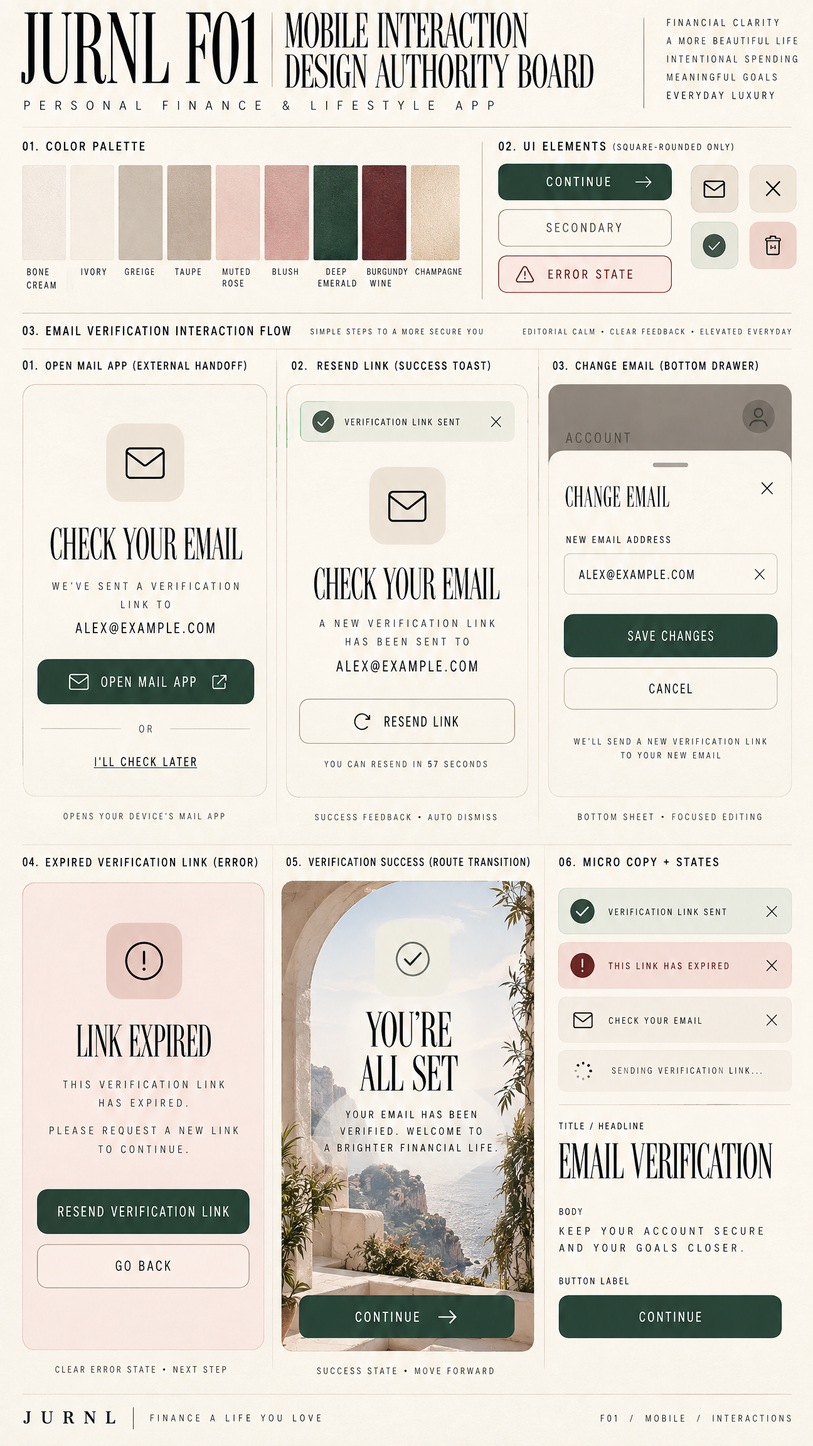
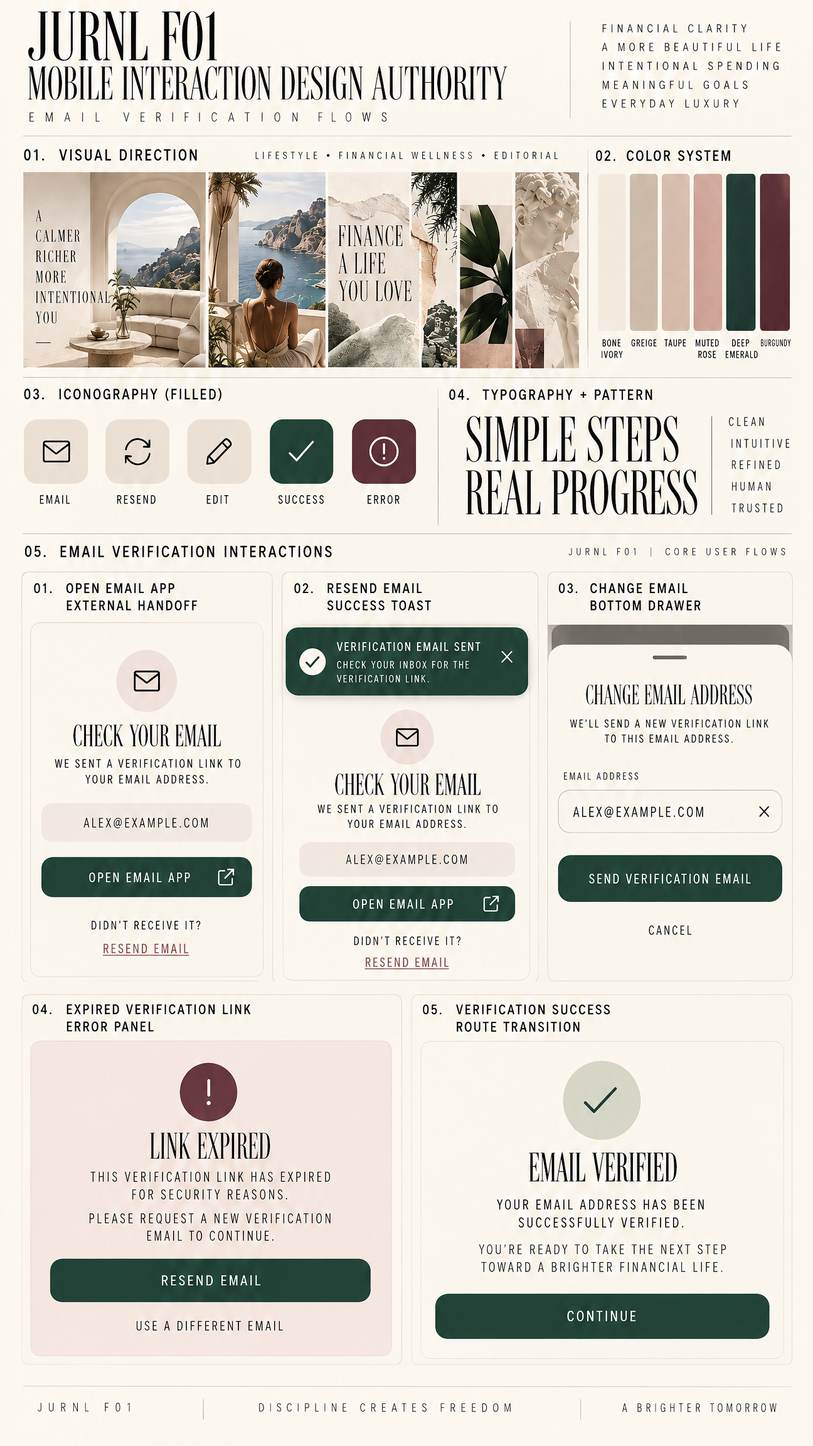
JURNL F01: regenerate interaction authority PNGs (uppercase-only)
Re-run all 10 F01 interaction boards via gpt-image-2-5-sunburst image2image
with CRITICAL TYPOGRAPHY RULE prefix. Update openart_interaction_log.json
with new historyIds and note uppercase-only regen 2026-10-04.

diff --git a/scripts/jurnl-f01-regen-interactions-uppercase.py b/scripts/jurnl-f01-regen-interactions-uppercase.py
@@ -1,0 +1,146 @@
+#!/usr/bin/env python3
+"""Regenerate F01 interaction PNGs via OpenArt API — used with MCP historyIds from stdin JSON."""
+from __future__ import annotations
+
+import json
+import sys
+import urllib.request
+from pathlib import Path
+
+INTERACTIONS = Path(__file__).resolve().parents[1] / "JURNL" / "F01_ENTRY" / "INTERACTIONS"
+LOG_PATH = INTERACTIONS / "openart_interaction_log.json"
+
+PREFIX = (
+    "CRITICAL TYPOGRAPHY RULE: 100% UPPERCASE ONLY FOR ALL USER-FACING TEXT. "
+    "NO LOWERCASE LETTERS ANYWHERE ON THE BOARD. "
+)
+
+PROMPTS: dict[str, str] = {
+    "F01_INTERACTION_MASTER_SHEET.png": (
+        "JURNL F01 mobile INTERACTION design authority board. FLAT 9:16 — NO phone mockup/frame. "
+        "Bone ivory plaster paper texture background, deep emerald primary CTAs, burgundy error states, muted rose accents. "
+        "Fashion Condensed UPPERCASE headline typography. Square-rounded corners ONLY on all buttons and chips — NO circular tappable buttons. "
+        "Match Master visual reference colors, typography weight, and flat UI illustration style exactly. "
+        "Single authority sheet grid showing 12 labeled mobile interaction primitives with clear uppercase labels beneath each: "
+        "BOTTOM DRAWER SHORT, BOTTOM DRAWER LONG SCROLLABLE, FULL-SCREEN SHEET, CONFIRMATION MODAL, INLINE EXPANSION, ERROR PANEL, "
+        "SUCCESS BANNER TOAST, LOADING BUTTON, FORM FIELD FOCUS, EXTERNAL APP HANDOFF, NATIVE OS HANDOFF BOUNDARY, ROUTE TRANSITION. "
+        "Every button label, field placeholder, and annotation must be ALL CAPS."
+    ),
+    "F01_CREATE_ACCOUNT_INTERACTIONS.png": (
+        "JURNL F01 mobile INTERACTION design authority board. FLAT 9:16 — NO phone mockup/frame. "
+        "Bone ivory plaster paper texture background, deep emerald primary CTAs, burgundy error states, muted rose accents. "
+        "Fashion Condensed UPPERCASE headline typography. Square-rounded corners ONLY — NO circular tappable buttons. Match Master visual reference. "
+        "Create account flow interaction specimens in one board: FORM FIELD FOCUS state, PASSWORD REQUIREMENTS INLINE EXPANSION, "
+        "TERMS OF SERVICE BOTTOM DRAWER, PRIVACY POLICY BOTTOM DRAWER, CONTINUE WITH APPLE and CONTINUE WITH GOOGLE EXTERNAL APP HANDOFF ROWS, "
+        "LOADING CREATE ACCOUNT BUTTON, EMAIL ALREADY IN USE ERROR PANEL, VALIDATION SUMMARY ERROR STRIP. "
+        "All visible UI strings ALL CAPS."
+    ),
+    "F01_SIGN_IN_INTERACTIONS.png": (
+        "JURNL F01 mobile INTERACTION design authority board. FLAT 9:16 — NO phone mockup/frame. "
+        "Bone ivory plaster paper, deep emerald CTAs, burgundy errors, muted rose. Fashion Condensed UPPERCASE headlines. "
+        "Square-rounded ONLY — NO circular buttons. Match Master reference. Sign in interaction board: "
+        "EMAIL FIELD FOCUS, SHOW/HIDE PASSWORD TOGGLE, KEEP ME SIGNED IN CHECKBOX, FORGOT PASSWORD? LINK, "
+        "CONTINUE WITH APPLE and CONTINUE WITH GOOGLE SOCIAL HANDOFF ROWS, INCORRECT PASSWORD ERROR, ACCOUNT NOT FOUND ERROR, "
+        "ACCOUNT LOCKED FULL-SCREEN SHEET, SIGNING IN LOADING BUTTON STATE. All labels ALL CAPS."
+    ),
+    "F01_RETURNING_USER_INTERACTIONS.png": (
+        "JURNL F01 mobile INTERACTION design authority board. FLAT 9:16 — NO phone mockup/frame. "
+        "Bone ivory plaster paper, deep emerald CTAs, burgundy errors, muted rose. Fashion Condensed UPPERCASE headlines. Square-rounded ONLY. "
+        "Match Master reference. Returning user interactions: FACE ID NATIVE OS HANDOFF BOUNDARY PANEL (abstract system boundary, NO fake Apple UI chrome), "
+        "FAILED BIOMETRIC RECOVERY ERROR, USE PASSWORD BOTTOM SHEET, SWITCH ACCOUNT DRAWER LIST, SIGN OUT CONFIRMATION MODAL with emerald CONFIRM and muted CANCEL. "
+        "All text ALL CAPS."
+    ),
+    "F01_EMAIL_VERIFICATION_INTERACTIONS.png": (
+        "JURNL F01 mobile INTERACTION design authority board. FLAT 9:16 — NO phone mockup/frame. "
+        "Bone ivory plaster paper, deep emerald CTAs, burgundy errors, muted rose. Fashion Condensed UPPERCASE headlines. Square-rounded ONLY. "
+        "Match Master reference. Email verification interactions: OPEN EMAIL APP EXTERNAL HANDOFF ROW, RESEND EMAIL SUCCESS TOAST BANNER, "
+        "CHANGE EMAIL BOTTOM DRAWER, EXPIRED VERIFICATION LINK ERROR PANEL, VERIFICATION SUCCESS ROUTE TRANSITION SCREEN with emerald CONTINUE. "
+        "All text ALL CAPS."
+    ),
+    "F01_BIOMETRIC_INTERACTIONS.png": (
+        "JURNL F01 mobile INTERACTION design authority board. FLAT 9:16 — NO phone mockup/frame. "
+        "Bone ivory plaster paper, deep emerald CTAs, burgundy errors, muted rose. Fashion Condensed UPPERCASE headlines. Square-rounded ONLY. "
+        "Match Master reference. Biometric setup interactions: ENABLE FACE ID OS HANDOFF BOUNDARY, ACCESS GRANTED SUCCESS STATE, "
+        "ACCESS DENIED EXPLANATION SHEET, UNSUPPORTED DEVICE PANEL, NOT NOW SECONDARY ACTION; plus DEVICE TRUSTED SUCCESS TOAST and "
+        "LEARN WHAT THIS MEANS BOTTOM DRAWER. All text ALL CAPS."
+    ),
+    "F01_PRIVACY_INTERACTIONS.png": (
+        "JURNL F01 mobile INTERACTION design authority board. FLAT 9:16 — NO phone mockup/frame. "
+        "Bone ivory plaster paper, deep emerald CTAs, burgundy errors, muted rose. Fashion Condensed UPPERCASE headlines. Square-rounded ONLY. "
+        "Match Master reference. Privacy interactions: PRIVACY DETAIL DRAWER SHELL plus five content variants — YOUR DATA, CONNECTED ACCOUNTS, "
+        "AI ACCESS, DATA EXPORT, REMOVE ACCESS — each showing realistic list rows, square-rounded toggles, emerald primary actions on ivory paper. "
+        "All text ALL CAPS."
+    ),
+    "F01_SECURITY_INTERACTIONS.png": (
+        "JURNL F01 mobile INTERACTION design authority board. FLAT 9:16 — NO phone mockup/frame. "
+        "Bone ivory plaster paper, deep emerald CTAs, burgundy errors, muted rose. Fashion Condensed UPPERCASE headlines. Square-rounded ONLY. "
+        "Match Master reference. Security settings interaction board: bottom drawers and full sheets for BIOMETRIC SIGN IN, DEVICE SECURITY, "
+        "CONNECTED ACCOUNT CONTROL, SECURE DATA HANDLING, SESSION MANAGEMENT with ACTIVE SESSIONS LIST and REVOKE ACTIONS. All text ALL CAPS."
+    ),
+    "F01_RECOVERY_INTERACTIONS.png": (
+        "JURNL F01 mobile INTERACTION design authority board. FLAT 9:16 — NO phone mockup/frame. "
+        "Bone ivory plaster paper, deep emerald CTAs, burgundy errors, muted rose. Fashion Condensed UPPERCASE headlines. Square-rounded ONLY. "
+        "Match Master reference. Password recovery flow interactions: FORGOT PASSWORD ENTRY, RESET EMAIL SENT CONFIRMATION, NEW PASSWORD FIELD FOCUS, "
+        "SEND RESET LINK LOADING BUTTON, WEAK PASSWORD VALIDATION ERRORS, NETWORK ERROR TOAST, PASSWORD RESET SUCCESS BANNER AND TRANSITION. "
+        "All text ALL CAPS."
+    ),
+    "F01_FAMILY_TRANSITION_AUTHORITY.png": (
+        "JURNL F01 mobile INTERACTION design authority board. FLAT 9:16 — NO phone mockup/frame. "
+        "Bone ivory plaster paper, deep emerald CTAs, burgundy errors, muted rose. Fashion Condensed UPPERCASE headlines. Square-rounded ONLY. "
+        "Match Master reference. Auth family boundary transition authority: three hero transition screens — GET STARTED ENTRY, SIGN IN ENTRY, "
+        "CONTINUE TO SETUP marking F01 TO F02 FAMILY HANDOFF — with uppercase Fashion Condensed headlines, emerald primary CTAs, "
+        "consistent ivory paper system, clear flow arrows or step labels between family states. All text ALL CAPS."
+    ),
+}
+
+
+def download(url: str, dest: Path) -> None:
+    req = urllib.request.Request(url, headers={"User-Agent": "SITE00-jurnl-regen/1.0"})
+    with urllib.request.urlopen(req, timeout=120) as resp:
+        dest.write_bytes(resp.read())
+
+
+def main() -> None:
+    # JSON array: [{ "file", "historyId", "url" }, ...]
+    results = json.loads(sys.stdin.read())
+    items = []
+    ok = 0
+    for row in results:
+        fname = row["file"]
+        url = row["url"]
+        dest = INTERACTIONS / fname
+        try:
+            download(url, dest)
+            ok += 1
+        except Exception as e:
+            print(f"FAIL download {fname}: {e}", file=sys.stderr)
+        items.append(
+            {
+                "file": fname,
+                "historyId": row["historyId"],
+                "url": url,
+            }
+        )
+
+    log = {
+        "model": "gpt-image-2-5-sunburst",
+        "mode": "image2image",
+        "projectId": "TToQavm9coU1QGPRfEzU",
+        "settings": {
+            "aspectRatio": "9:16",
+            "resolutionTier": "2k",
+            "quality": "high",
+            "autoEnhancePrompt": false,
+            "outputFormat": "png",
+            "visualReferenceMaster": "OYiiyxbcSxfsKxaDEevS",
+        },
+        "note": "uppercase-only regen 2026-10-04",
+        "generatedAt": row.get("generatedAt", "2026-10-04T23:45:00Z"),
+        "items": items,
+    }
+    LOG_PATH.write_text(json.dumps(log, indent=2) + "\n", encoding="utf-8")
+    print(json.dumps({"success": ok, "total": len(results)}))
+
+
+if __name__ == "__main__":
+    main()
